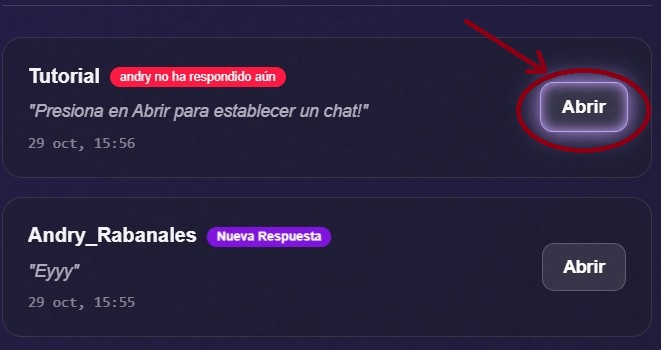
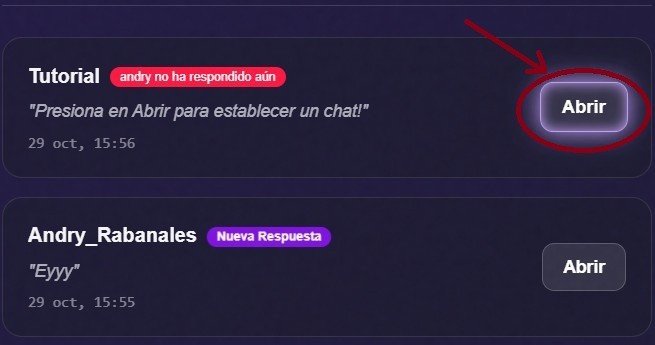
img arreglada

diff --git a/src/components/FirstMessageGuideModal.jsx b/src/components/FirstMessageGuideModal.jsx
@@ -85,7 +85,7 @@ const buttonStyle = {
 // --- 👇 NUEVO ESTILO PARA LA IMAGEN ---
 const imageStyle = {
     display: 'block',     // Para poder centrar con margin
-    maxWidth: '95%',      // Que no sea más ancha que el 80% del modal
+    maxWidth: '100%',      // Que no sea más ancha que el 80% del modal
     height: 'auto',       // Mantiene la proporción
     margin: '15px auto', // Centra la imagen y añade espacio arriba/abajo
     borderRadius: '16px', // Bordes redondeados
